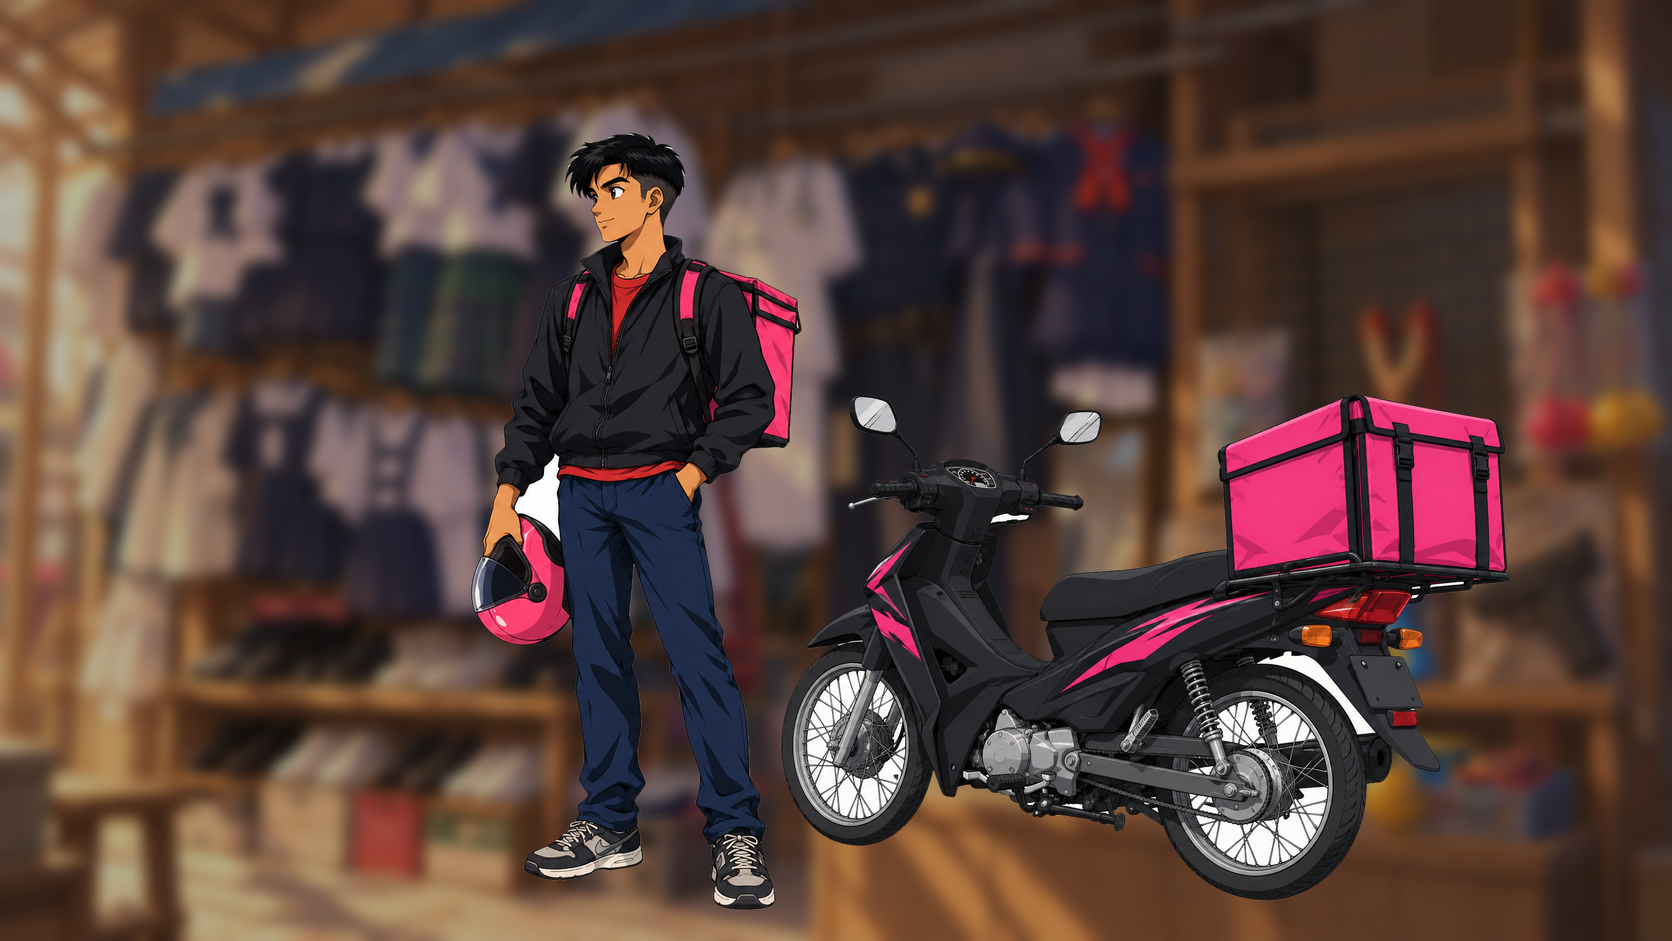
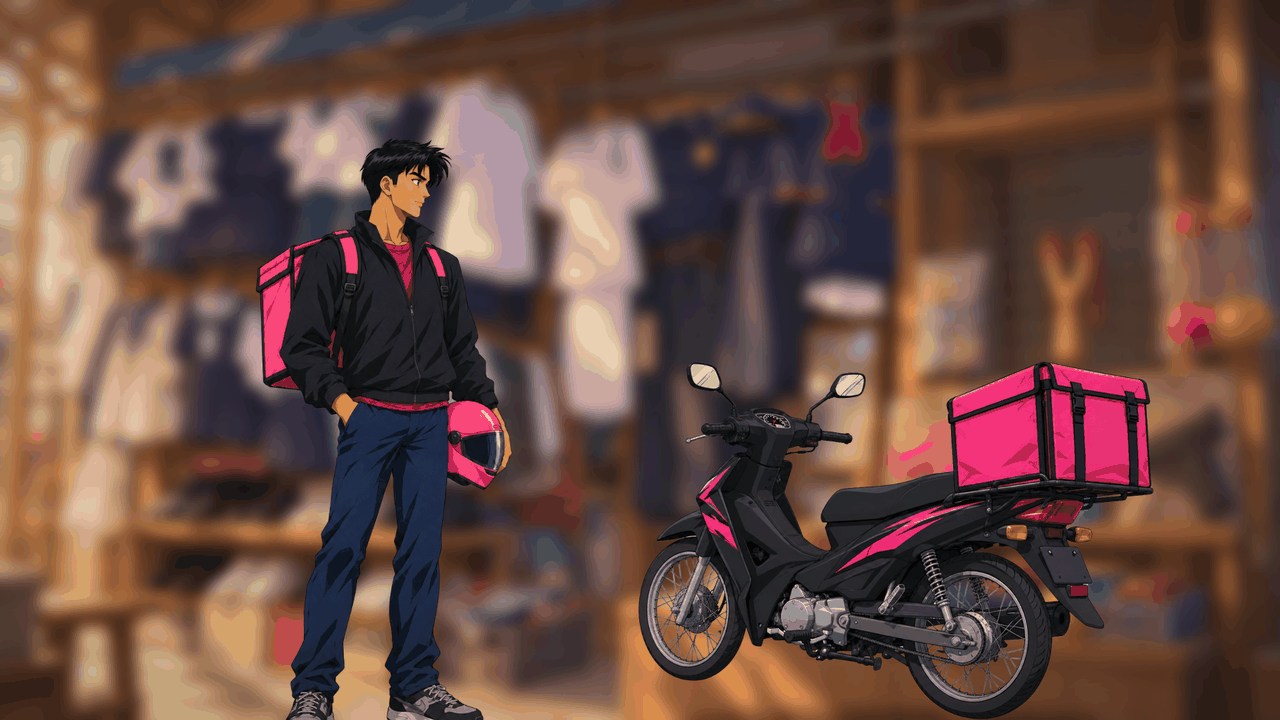
fix(art): the intro shows the same Peter as the rest of the game
The opening picture had its own drawing of Peter, different from the
portrait used in dialogue and in every other scene. It is deleted and redrawn
from the portrait, the market and the motorbike, and listed with the other
stand-ins until a real painting replaces it.

Claude-Session: https://claude.ai/code/session_018qtt7uTeVSGsnvQanUjafP

diff --git a/tools/draw_placeholders.py b/tools/draw_placeholders.py
@@ -1,6 +1,6 @@
 """Draws stand-in cutscene pictures for scenes whose final art is not painted yet.
 
-Each stand-in is put together from the game's own art, the way tokhang_rider.png is: a place's
+Each stand-in is put together from the game's own art: a place's
 background (cropped, blurred or recoloured for the moment: night, dawn, police lights, a
 flashback), the characters' full-body pictures placed in it (their sad pictures where it fits,
 dark silhouettes for someone not yet revealed), and props (the keys, the telephone, the toy guns
@@ -234,6 +234,15 @@ def frame_around(inner: Image.Image, box, outer: Image.Image, border=(18, 16, 18
 
 
 # ---------------------------------------------------------------- the shots
+
+
+def tokhang_rider() -> Image.Image:
+    """The opening picture: Peter, the rider, with his motorbike, on the blurred market behind
+    him. He is the same drawing as in the dialogue and in every other scene."""
+    c = background("public_market", blur=9)
+    place(c, person("peter", True), 0.3, 1.03, 0.84)
+    place(c, prop("motor"), 0.7, 1.0, 0.5)
+    return vignette(grade(c, 1.0, 1.05), 0.35)
 
 
 def shot_market_holding(buyer: str) -> Image.Image:
@@ -550,6 +559,7 @@ def true_morning_mercy() -> Image.Image:
 
 
 SHOTS = {
+    "tokhang_rider.png": tokhang_rider,
     "tokhang_tv_news.png": lambda: object_scenes.tokhang_tv_news(SIZE),
     "tokhang_peter_holding.png": lambda: shot_market_holding("peter"),
     "tokhang_peter_shot.png": lambda: shot_market_down("peter"),

diff --git a/HANDOFF.md b/HANDOFF.md
@@ -169,6 +169,11 @@ Each is a tagged release on `main`. `git log --oneline` and `git tag -l` show th
 
 ## Where we stopped
 
+- **One Peter (branch claude/intro-peter):** the intro picture `tokhang_rider.png` was its own
+  drawing of Peter, unlike the portrait every other scene uses. It was deleted and redrawn by
+  `tools/draw_placeholders.py` from the portrait (`peter_1.png`), the market and the motor prop, and
+  is now in `PLACEHOLDERS.txt` like the other stand-ins. A real painting should replace it later.
+
 - **Main screen and saves GUI (branch claude/menu-polish):** the menu words are plain text centred
   under the logo, gold when pressed; Continue and New Game open `scripts/save_slots.gd`, a
   left-aligned list of rows (4:3 picture of the place the save stopped in, details beside it),
